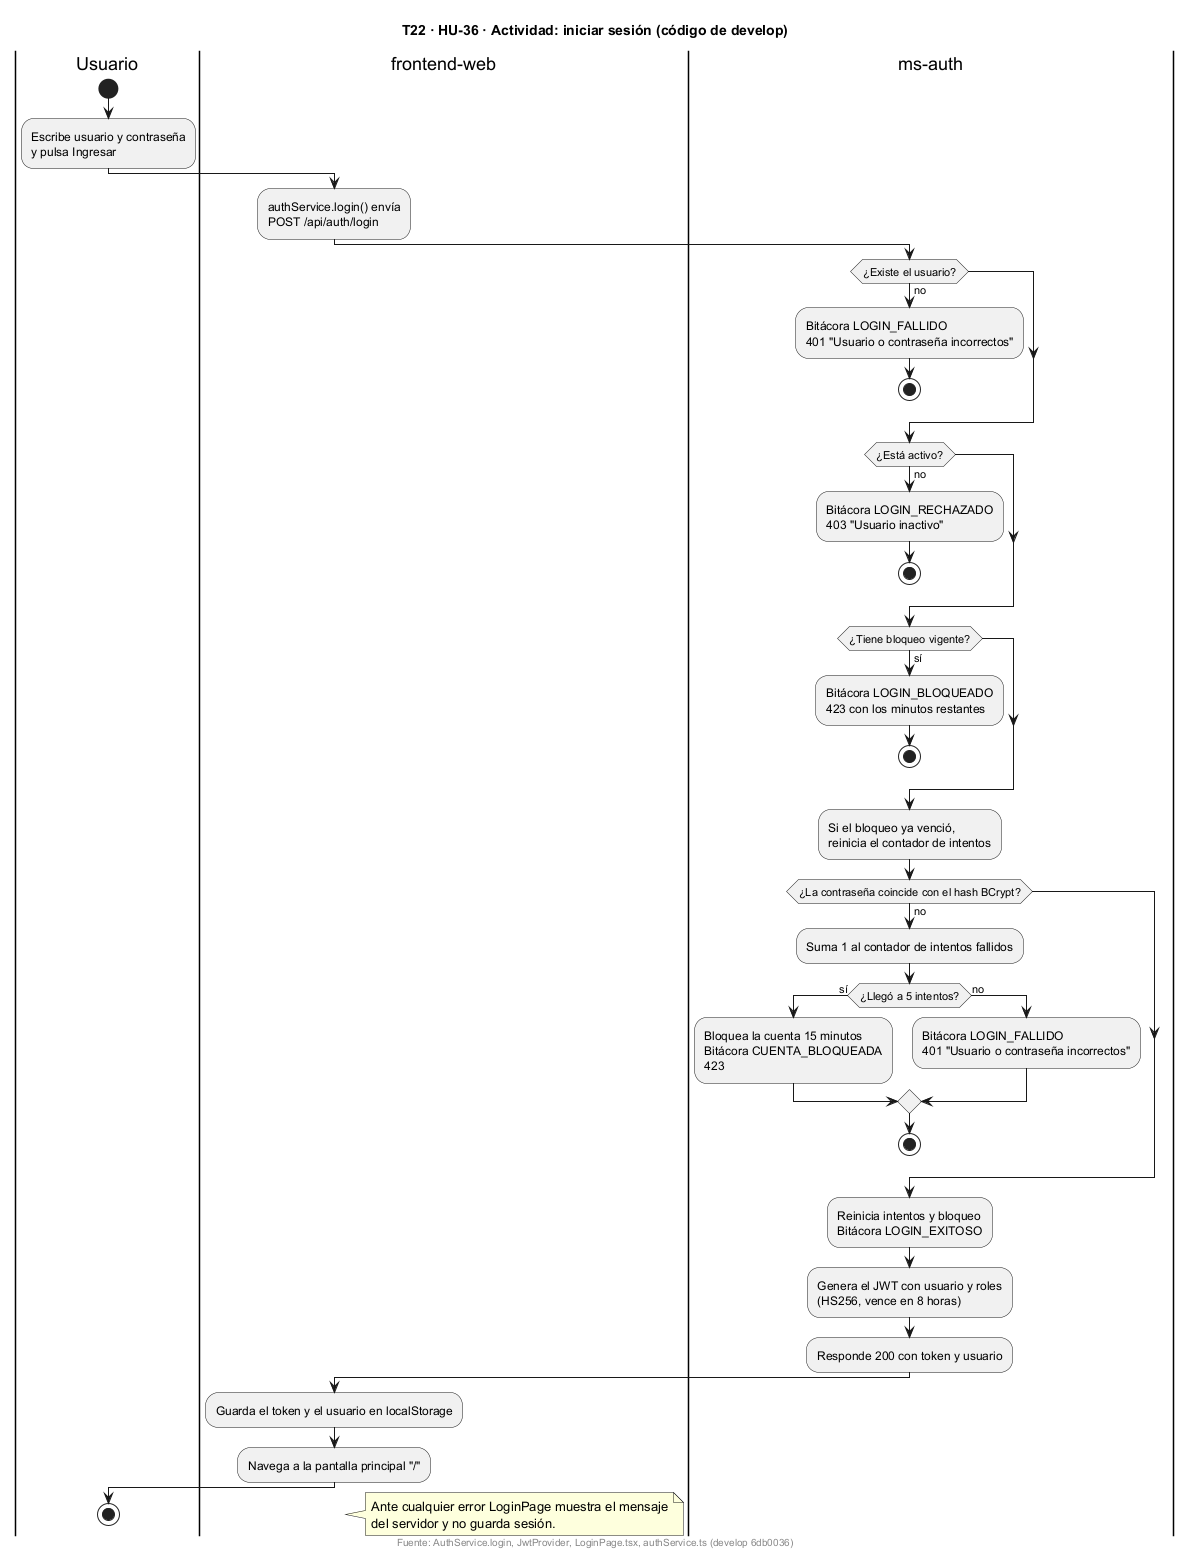
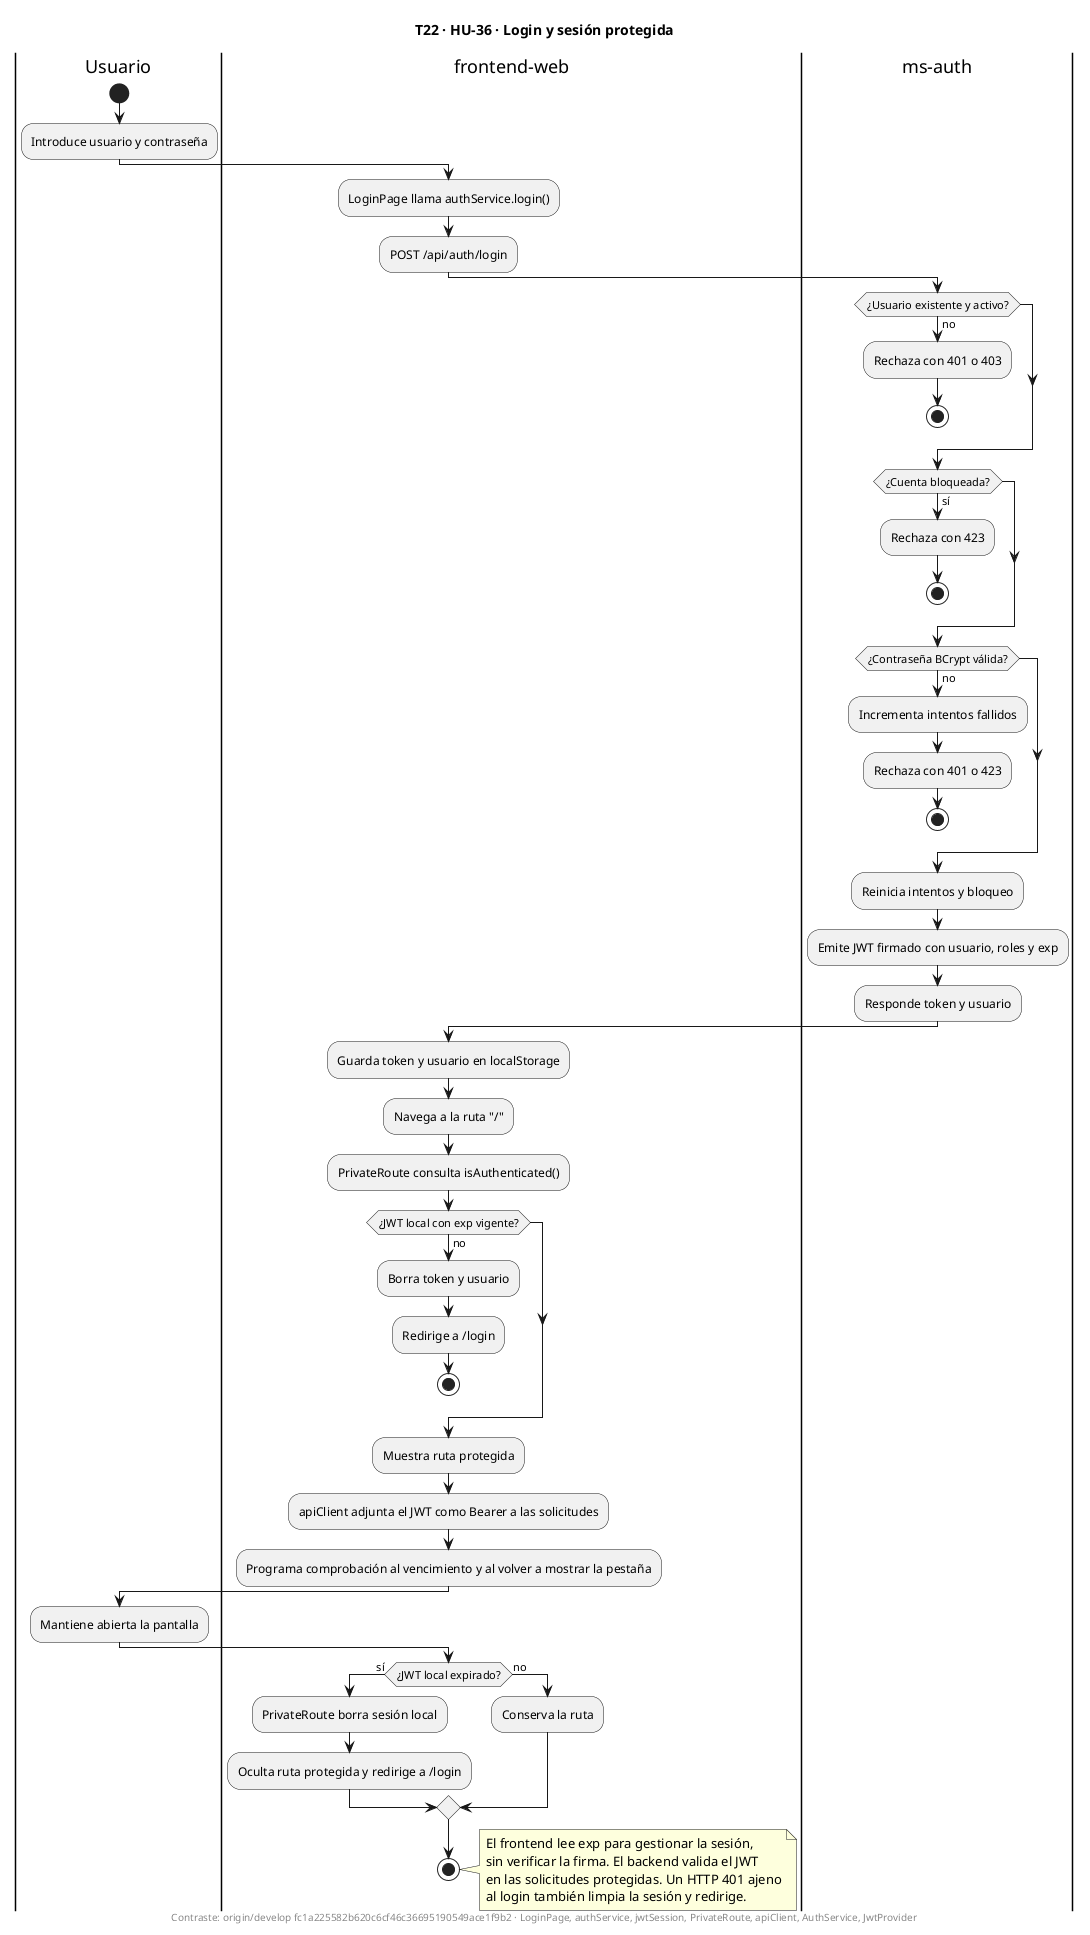
docs(uml): actualizar T22, T54 y trazabilidad

diff --git a/docs/uml/TRAZABILIDAD.md b/docs/uml/TRAZABILIDAD.md
@@ -1,6 +1,6 @@
 # Trazabilidad de diagramas UML — Sprint 1
 
-Todos los diagramas salen del código de `develop` (commit `6db0036`; el de la tarea 62, del commit `5adfb88`). Fuente `.puml` (PlantUML) en esta carpeta e imagen `.png` con el mismo nombre en `img/`. Para regenerarlas: `java -jar plantuml.jar -tpng -charset UTF-8 -o img *.puml` desde `docs/uml/`.
+Los diagramas originales se contrastaron con versiones anteriores de `develop`. T22 y T54 se revisaron de nuevo contra `origin/develop` `fc1a225582b620c6cf46c36695190549ace1f9b2` (03/11/2026). Fuente `.puml` (PlantUML) en esta carpeta e imagen `.png` con el mismo nombre en `img/`. Para regenerarlas: `java -jar plantuml.jar -tpng -charset UTF-8 -o img *.puml` desde `docs/uml/`.
 
 ## Alcance
 
@@ -23,11 +23,11 @@ No se hacen diagramas de casos de uso (indicación del profesor: el proyecto se 
 
 | Tarea | Historia | Diagrama | Clases y archivos que lo respaldan | Pruebas relacionadas (en `develop`) |
 |---|---|---|---|---|
-| 22 | HU-36 | [`T22-HU36-actividad`](T22-HU36-actividad.puml) · [png](img/T22-HU36-actividad.png) | `LoginPage.tsx`, `authService.ts`, `apiClient.ts`, `PrivateRoute.tsx`, `AuthController.login`, `AuthService.login`, `JwtProvider` | `AuthServiceTest`, `AuthControllerTest`, `JwtProviderTest` |
+| 22 | HU-36 | [`T22-HU36-actividad`](T22-HU36-actividad.puml) · [png](img/T22-HU36-actividad.png) | `LoginPage.tsx`, `authService.ts`, `jwtSession.ts`, `apiClient.ts`, `PrivateRoute.tsx`, `AuthController.login`, `AuthService.login`, `JwtProvider`. Contraste: `fc1a225` (PR #6 fusionado) | `AuthServiceTest`, `AuthControllerTest`, `JwtProviderTest`, `authService.test.tsx` |
 | 35 | HU-03 | [`T35-HU03-clases`](T35-HU03-clases.puml) · [png](img/T35-HU03-clases.png) | `TrabajadorController`, `TrabajadorService`, `Trabajador`, `TrabajadorDto`, `TrabajadorRepository` | `TrabajadorServiceTest`, `PermisosPorRolTest` |
 | 41 | HU-04 | [`T41-HU04-secuencia`](T41-HU04-secuencia.puml) · [png](img/T41-HU04-secuencia.png) | `DocumentoController`, `ExpedienteService.archivar`, `DocumentoLegal`, `DocumentoRepository`, `GlobalExceptionHandler` | `ExpedienteServiceTest`, `PermisosPorRolTest` |
 | 48 | HU-05 | [`T48-HU05-clases`](T48-HU05-clases.puml) · [png](img/T48-HU05-clases.png) | `AcuerdoController`, `AcuerdoService`, `AcuerdoServicio`, `HonorarioHistorial`, `AcuerdoDto`, `AcuerdoRepository`, `HonorarioHistorialRepository` | `AcuerdoServiceTest`, `PermisosPorRolTest` |
-| 54 | HU-07 | [`T54-HU07-actividad`](T54-HU07-actividad.puml) · [png](img/T54-HU07-actividad.png) | `ObligacionController.crear`, `ObligacionProgramacionService`, `ObligacionInputValidator`, `CronogramaConsultaService`, `GrupoRucCronograma`. **Respaldo parcial**: ver nota abajo | `ObligacionProgramacionServiceTest`, `ObligacionInputValidatorTest`, `Hu07ComponentesTest`, `Hu07PostgresIntegrationTest`, `CronogramaYGeneradorTest`, `GrupoRucCronogramaTest`, `CronogramaSunatLoaderTest` |
+| 54 | HU-07 | [`T54-HU07-actividad`](T54-HU07-actividad.puml) · [png](img/T54-HU07-actividad.png) | Alta manual: `ObligacionController.crear`, `ObligacionProgramacionService`. Programación: `ProgramacionMensualController`, `ProgramacionMensualService`, `CronogramaConsultaService`, `GeneradorObligaciones`, `ReglaQuinta`, `ParametrosTributarios`. Contraste: `fc1a225` | `ObligacionProgramacionServiceTest`, `ProgramacionMensualServiceTest`, `ProgramacionMensualControllerTest`, `ReglaQuintaTest` |
 | 67 | HU-09 | [`T67-HU09-estados`](T67-HU09-estados.puml) · [png](img/T67-HU09-estados.png) | `Obligacion.Estado`, `ObligacionService.declarar` y `cambiarVencimiento`, `DeclaracionDto` | `ObligacionServiceTest` |
 | 73 | HU-10 | [`T73-HU10-secuencia`](T73-HU10-secuencia.puml) · [png](img/T73-HU10-secuencia.png) | `ObligacionController.cambiarVencimiento`, `ObligacionService.cambiarVencimiento`, `VencimientoHistorial`, `VencimientoHistorialRepository` | `ObligacionServiceTest` |
 | 62 | HU-08 | [`T62-HU08-secuencia-calendario`](T62-HU08-secuencia-calendario.puml) · [png](img/T62-HU08-secuencia-calendario.png) | `CalendarioController`, `CalendarioService`, `CalendarioObligacionDto`, `VencimientoTributario`, `ObligacionService.listar`, `SecurityConfig`. Código de `develop` en el commit `5adfb88` (PR #5 fusionado) | `CalendarioServiceTest`, `CalendarioPermisosTest`, `VencimientoTributarioTest` |
@@ -35,11 +35,11 @@ No se hacen diagramas de casos de uso (indicación del profesor: el proyecto se 
 ## Lo que el diseño no puede respaldar con código
 
 - **Roles:** `CLIENTE_MYPE` aparece en `SecurityConfig` de ms-tributario, pero no se siembra en `auth_schema.roles`. Hoy no existe ninguna cuenta con ese rol.
-- **Usuario de base de datos:** ambos servicios usan el mismo usuario `postgres`. No hay usuario por esquema (tarea 4 pendiente).
-- **Cronograma SUNAT:** la tabla `cronograma_tributario` se carga al arrancar (84 filas), pero ningún flujo la consulta para calcular vencimientos.
+- **Usuarios de base de datos (PR #10 fusionado):** el código y `docker-compose.yml` admiten `AUTH_DB_USER`/`AUTH_DB_PASSWORD` y `TRIBUTARIO_DB_USER`/`TRIBUTARIO_DB_PASSWORD`. El respaldo `DB_USER`/`DB_PASSWORD` continúa disponible. El README indica que los usuarios por servicio son opcionales; no se ha verificado que cada desarrollador haya migrado su base local.
+- **Cronograma SUNAT:** la tabla `cronograma_tributario` se carga al arrancar (84 filas) y `ProgramacionMensualService` la consulta para programar obligaciones. El alta manual sigue recibiendo una fecha explícita.
 - **`GET /api/auth/me`:** existe y exige token, pero el frontend no lo invoca.
-- **Pruebas del contrato del token entre servicios:** `ContratoTokenTest` (ms-auth) y `TokenEntreServiciosTest` (ms-tributario) existen en el PR #7 (`feature/pruebas-julio-s1`), todavía sin fusionar. No se citan arriba porque no están en `develop`.
-- **Tarea 54 (HU-07), el diagrama pedido régimen + último dígito del RUC → fecha límite no existe como flujo.** El alta recibe la fecha en la solicitud. `CronogramaConsultaService.buscar` y `GeneradorObligaciones.preparar` existen, pero solo los usan las pruebas, y el régimen tributario no interviene en ningún cálculo. El diagrama muestra el alta real y, en un carril aparte, la consulta existente sin conectar.
+- **Pruebas del contrato del token entre servicios (PR #7 fusionado):** `ContratoTokenTest` (ms-auth) y `TokenEntreServiciosTest` (ms-tributario) ya están en `develop`.
+- **Tarea 54 (HU-07):** la programación mensual usa el último dígito del RUC para seleccionar la fecha del cronograma. IGV y RENTA se generan; PLAME requiere trabajadores ingresados al cierre del mes. El régimen no cambia la selección de fecha. ESSALUD y quinta están desactivadas por defecto, aunque existen parámetros para activarlas; AFP se omite siempre porque falta su cronograma propio. El alta manual sigue siendo un flujo separado.
 - **Tarea 79 (HU-13):** no hay código en `develop`, así que no se diagrama. La tarea 62 (HU-08) se diagramó después de fusionar el PR #5 (ver su fila en el bloque 2).
 - **Tarea 85 (HU-37):** tampoco hay código; se hizo como diseño previo (ver abajo).
 
